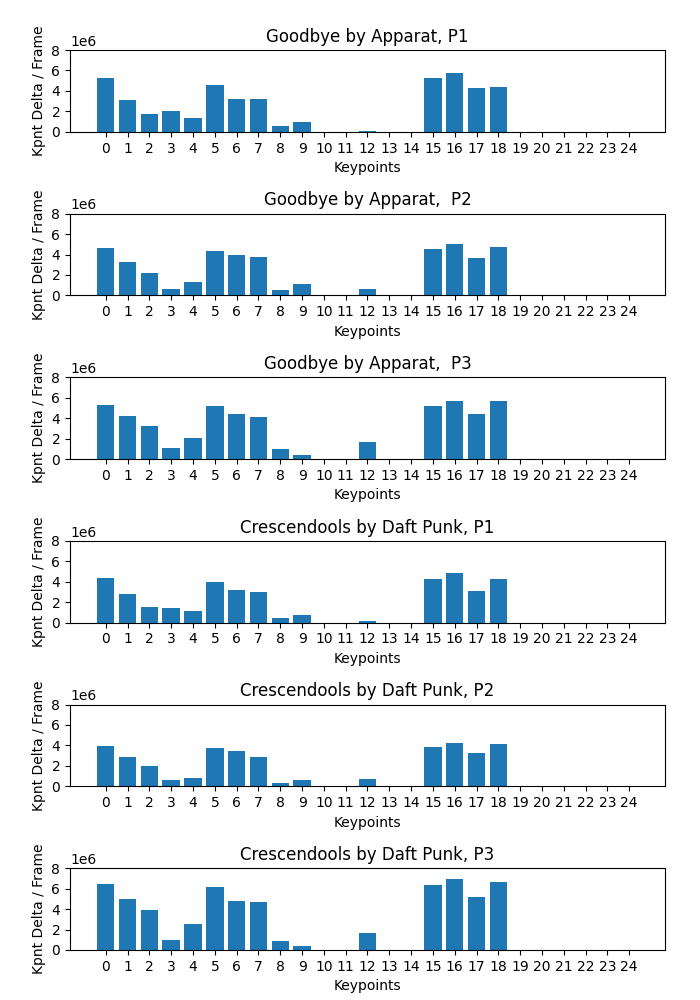
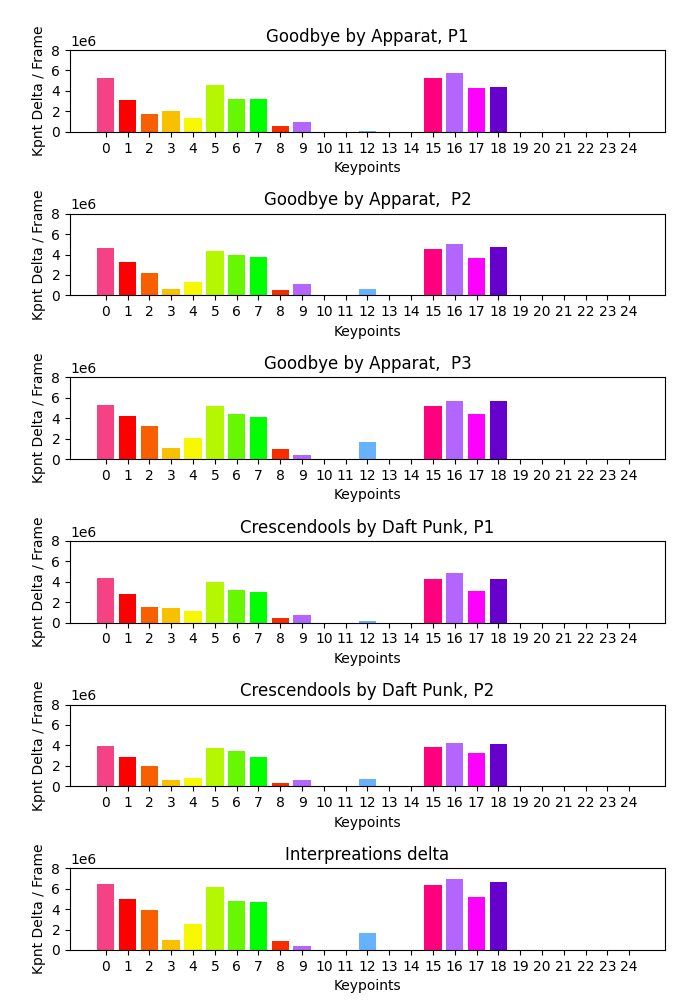
adds edits to colour graphs

diff --git a/phase-2/analysis/motion/code/plotting.py b/phase-2/analysis/motion/code/plotting.py
@@ -4,61 +4,83 @@ import sys
 from plottingFunctions import *
 import numpy as np
 
-plots = str(sys.argv[1])
-#part = int(sys.argv[2])
-
-
-loadJSONFiles()
+plots = int(sys.argv[1])
 songsDeltas = []
 songsJointsDelta = []
 songsJointsNames = []
+songsFrames = []
+shoulderX = []
+rawWristShoulders = []
 index = 0
+dataFrames = []
+songRaw = []
 
-for index in range(6):
-    songsJointsNames.append(jointNames)
+if plots < 7:
+    loadJSONFiles()
 
-for songsData in songsFeatures:
-    songsDeltas.append(songsData['deltaTotal'])
-    songsJointsDelta.append(songsData['deltaTotalJoints'])
-
-#print(songsDeltas)
-if plots == '0':
     for index in range(6):
-        plt.bar(SPstringRed[index], songsDeltas[index], color='b')
+        songsJointsNames.append(jointNames)
+
+    for songsData in songsFeatures:
+        songsDeltas.append(songsData['deltaTotal'])
+        songsJointsDelta.append(songsData['deltaTotalJoints'])
+        dataFrames.append(songsData['data'])
+
+    for rawDataSong in dataFrames:
+        rawFramesDataSong = []
+        for rawFramesData in rawDataSong['data']:
+            rawFramesDataSong.append(rawFramesData['raw_wrists_shoulders'])
+        songRaw.append(rawFramesDataSong)
+
+    print(songRaw[0][0])
+
+  #  print(rawWristShoulders[0])
+
+
+# prints delta total of songs
+if plots == 0:
+    for index in range(6):
         plt.ylim(0, 70000000)
-        plt.yticks([0, 2000000, 4000000, 6000000, 7000000])
+        plt.yticks([0, 10000000, 20000000, 30000000, 40000000, 50000000, 60000000, 70000000])
+        plt.bar(SPstringRed[index], songsDeltas[index], color=colors[index])
+        plt.grid(visible=True, axis='y', alpha=0.5)
         plt.title('Total delta') 
         plt.ylabel('Keypoint Delta / Frame')
         plt.xlabel('Interpretation')
     plt.savefig('./plot/deltaTotalParticipant.png')
+    plt.show()
 
-if plots == '1':
+# prints 
+if plots == 1:
     figure, axis = plt.subplots(6, 1, figsize=(7,10))
     
     for data in songsJointsDelta:
-        axis[index].bar(jointID, data)
+        axis[index].bar(jointID, data, color=rgb01)
         axis[index].set_title(SPstring[index]) 
         axis[index].set_ylim(0, 8000000)
         axis[index].set_yticks([0, 2000000, 4000000, 6000000, 8000000])
+
         axis[index].set_ylabel('Kpnt Delta / Frame')
         axis[index].set_xlabel('Keypoints')
         index += 1
         index %= 6    
-   
+
+    plt.title('Interpreations delta') 
     plt.subplots_adjust(left=0.1, bottom=0.05, right=0.95, top=0.95, wspace=0.2, hspace=1)
     plt.savefig('./plot/deltaTotalJoints.png')
+    plt.show()
 
     
-if plots == '2':
+if plots == 2:
     x = jointID
     y = np.array(songsJointsDelta)
 
-    plt.bar(x, y[0], color='r')
-    plt.bar(x, y[1], bottom=y[0], color='g')
-    plt.bar(x, y[2], bottom=y[0]+y[1], color='b')
-    plt.bar(x, y[3], bottom=y[0]+y[1]+y[2], color='orangered')
-    plt.bar(x, y[4], bottom=y[0]+y[1]+y[2]+y[3], color='limegreen')
-    plt.bar(x, y[5], bottom=y[0]+y[1]+y[2]+y[3]+y[4], color='deepskyblue')
+    plt.bar(x, y[0], color=colors[0])
+    plt.bar(x, y[1], bottom=y[0], color=colors[1])
+    plt.bar(x, y[2], bottom=y[0]+y[1], color=colors[2])
+    plt.bar(x, y[3], bottom=y[0]+y[1]+y[2], color=colors[3])
+    plt.bar(x, y[4], bottom=y[0]+y[1]+y[2]+y[3], color=colors[4])
+    plt.bar(x, y[5], bottom=y[0]+y[1]+y[2]+y[3]+y[4], color=colors[5])
 
     plt.ylim(0, 35000000)
     plt.ylabel('Keypoint Delta / Frame')
@@ -66,19 +88,7 @@ if plots == '2':
     plt.legend(SPstringRed)
     plt.savefig('./plot/deltaTotalJointsStack_All.png')
 
-if plots == '3':
-    plt.bar(jointID, songsJointsDelta[part-1], label=SPstringRed[part-1], color='r')
-    plt.bar(jointID, songsJointsDelta[part+2], label=SPstringRed[part+2], bottom=songsJointsDelta[part-1], color='b')
-    plt.ylabel('Keypoint Delta / Frame')
-    plt.xlabel('Keypoint No.')
-    plt.ylim(0, 15000000)
-    plt.grid(visible=True, axis='y', alpha=0.5)
-
-    plt.legend()
-    plt.savefig('./plot/deltaTotalJointsStack_S12_P'+str(part)+'.png')
-
-
-if plots == '4':
+if plots == 4:
 
     figure, axis = plt.subplots(3, 1, figsize=(7,9))
 
@@ -99,27 +109,31 @@ if plots == '4':
     plt.savefig('./plot/deltaTotalJointsStack_Participants.png')
 
 
-if plots == '5':
-    figure, axis = plt.subplots(2, 1, figsize=(7,9))
+if plots == 5:
+    figure, axis = plt.subplots(2, 1, figsize=(9,7))
     y = np.array(songsJointsDelta)
 
-    axis[0].bar(jointID, y[0], label='P1', color='r')
-    axis[0].bar(jointID, y[1], label='P2', bottom=y[0], color='g')
-    axis[0].bar(jointID, y[2], label='P3', bottom=y[0]+y[1], color='b')
+    axis[0].bar(jointID, y[0], label='P1', color=rgb01)
+    axis[0].bar(jointID, y[1], label='P2', bottom=y[0], color=rgb01*0.6)
+    axis[0].bar(jointID, y[2], label='P3', bottom=y[0]+y[1], color=rgb01*0.3)
 
-    axis[1].bar(jointID, y[3], label='P1', color='r')
-    axis[1].bar(jointID, y[4], label='P2', bottom=y[3], color='g')
-    axis[1].bar(jointID, y[5], label='P3', bottom=y[3]+y[4], color='b')
+    axis[1].bar(jointID, y[3], label='P1', color=rgb01)
+    axis[1].bar(jointID, y[4], label='P2', bottom=y[3], color=rgb01*0.6)
+    axis[1].bar(jointID, y[5], label='P3', bottom=y[3]+y[4], color=rgb01*0.3)
     
     for index in range(2):
        # axis[index].set_label(songsTitle)
         axis[index].legend()
-        axis[index].set_title(songsTitle[index]) 
+        axis[index].set_title(songsTitleFull[index]) 
         axis[index].set_ylim(0, 18000000)
         axis[index].set_yticks([0, 2000000, 4000000, 6000000, 8000000, 10000000, 12000000, 14000000, 16000000, 18000000])
-        axis[index].set_ylabel('Kpnt Delta / Frame')
+        axis[index].set_ylabel('Delta (Pixesls)')
         axis[index].set_xlabel('Keypoints')
         axis[index].grid(visible=True, axis='y', alpha=0.5)
 
-    plt.subplots_adjust(left=0.1, bottom=0.05, right=0.95, top=0.95, wspace=0.2, hspace=0.3) 
+    #plt.title('Particiapnts\' Kpnt Delta vs Songs')
+    plt.subplots_adjust(left=0.1, bottom=0.1, right=0.95, top=0.95, wspace=0.2, hspace=0.3) 
     plt.savefig('./plot/deltaTotalJointsStack_Songs.png')
+    plt.show()
+
+#if plots == 6:

diff --git a/phase-2/analysis/motion/code/plottingFunctions.py b/phase-2/analysis/motion/code/plottingFunctions.py
@@ -1,4 +1,5 @@
 import json
+import numpy as np
 
 songsFeatures = []
 participants = ['P1', 'P2', 'P3']
@@ -21,7 +22,11 @@ SPstringRed = [
             'S2 P3'
             ]
 
-songs = ['Apparat_Goodbye', 'DaftPunk_Crescendools']
+colors = ['r', 'g', 'b', 'orangered', 'limegreen', 'deepskyblue']
+
+songsTitleFull = ['Goodbye by Apparat', 'Crescendools by DaftPunk']
+
+songsJ = ['Apparat_Goodbye', 'DaftPunk_Crescendools']
 keypoints_IDs = [['0',  "Nose"], ['1',  "Neck"], ['2',  "RShoulder"], ['3',  "RElbow"], ['4',  "RWrist"], ['5',  "LShoulder"], ['6',  "LElbow"], ['7',  "LWrist"], ['8',  "MidHip"], ['9',  "RHip"],['10', "RKnee"], ['11', "RAnkle"], ['12', "LHip"], ['13', "LKnee"], ['14', "LAnkle"], ['15', "REye"], ['16', "LEye"], ['17', "REar"], ['18', "LEar"], ['19', "LBigToe"], ['20', "LSmallToe"], ['21', "LHeel"], ['22', "RBigToe"], ['23', "RSmallToe"], ['24', "RHeel"]]
 jointNames = []
 jointID = []
@@ -31,10 +36,13 @@ for k_string in keypoints_IDs:
     jointNames.append(k_string[1])
 
 def loadJSONFiles():
-    for indextSong in songs:
+    for indextSong in songsJ:
         for indexPart in participants:
             with open('data/'+indextSong+'_'+indexPart+'_features.json', 'r') as f:
                 songsFeatures.append(json.load(f))
     
     print('Message: JSON files loaded')
     
+rgb255 = [[245, 66, 132],[255, 0, 0],[247, 95, 0],[247, 193, 0],[247, 247, 0],[181, 247, 0],[103, 247, 0],[0, 255, 0],[247, 45, 0],[178, 102, 255],[51, 255, 51],[255, 255, 255],[102, 178, 255],[51, 153, 255],[51, 51, 255],[255, 0, 127],[178, 102, 255],[255, 0, 255],[102, 0, 204],[0, 0, 255],[0, 0, 255],[51, 51, 255],[0, 255, 255],[0, 255, 255],[0, 255, 255],[255, 255, 255]]
+
+rgb01 = np.array(rgb255)/255
